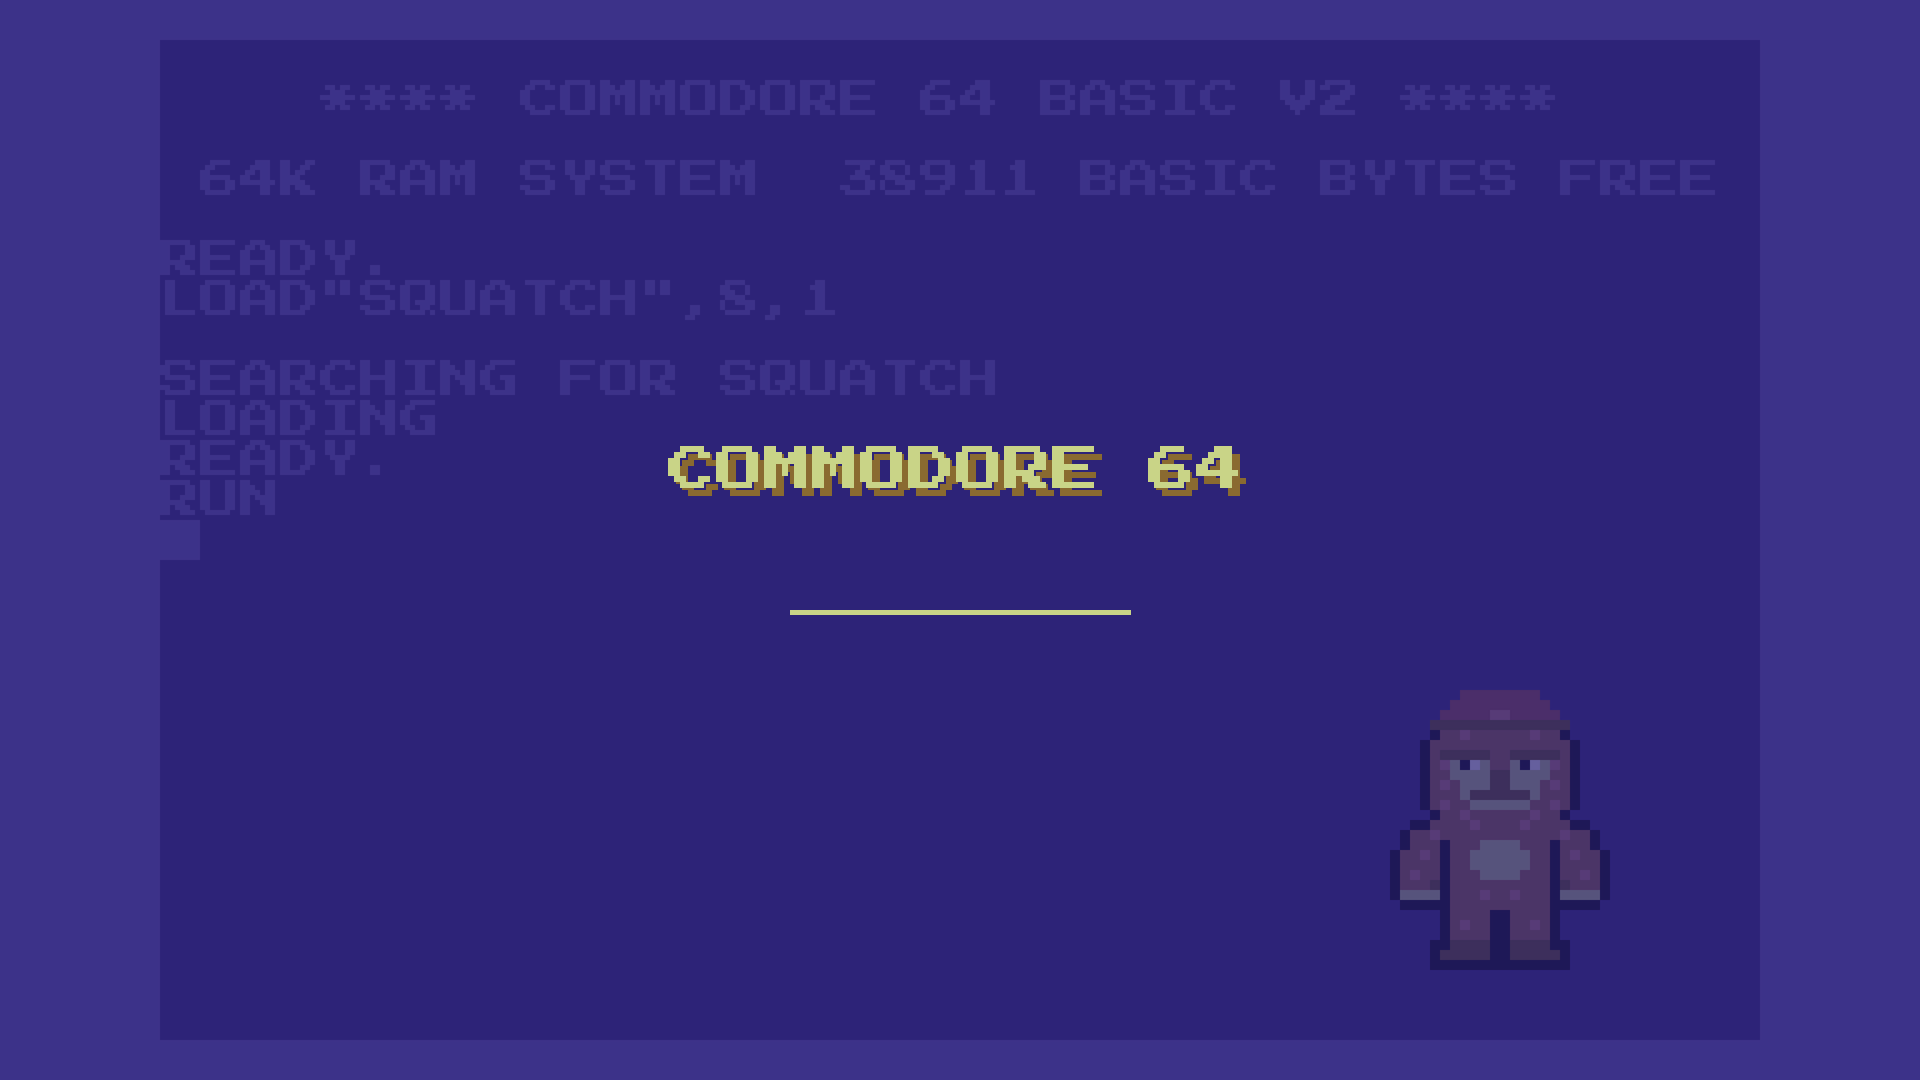
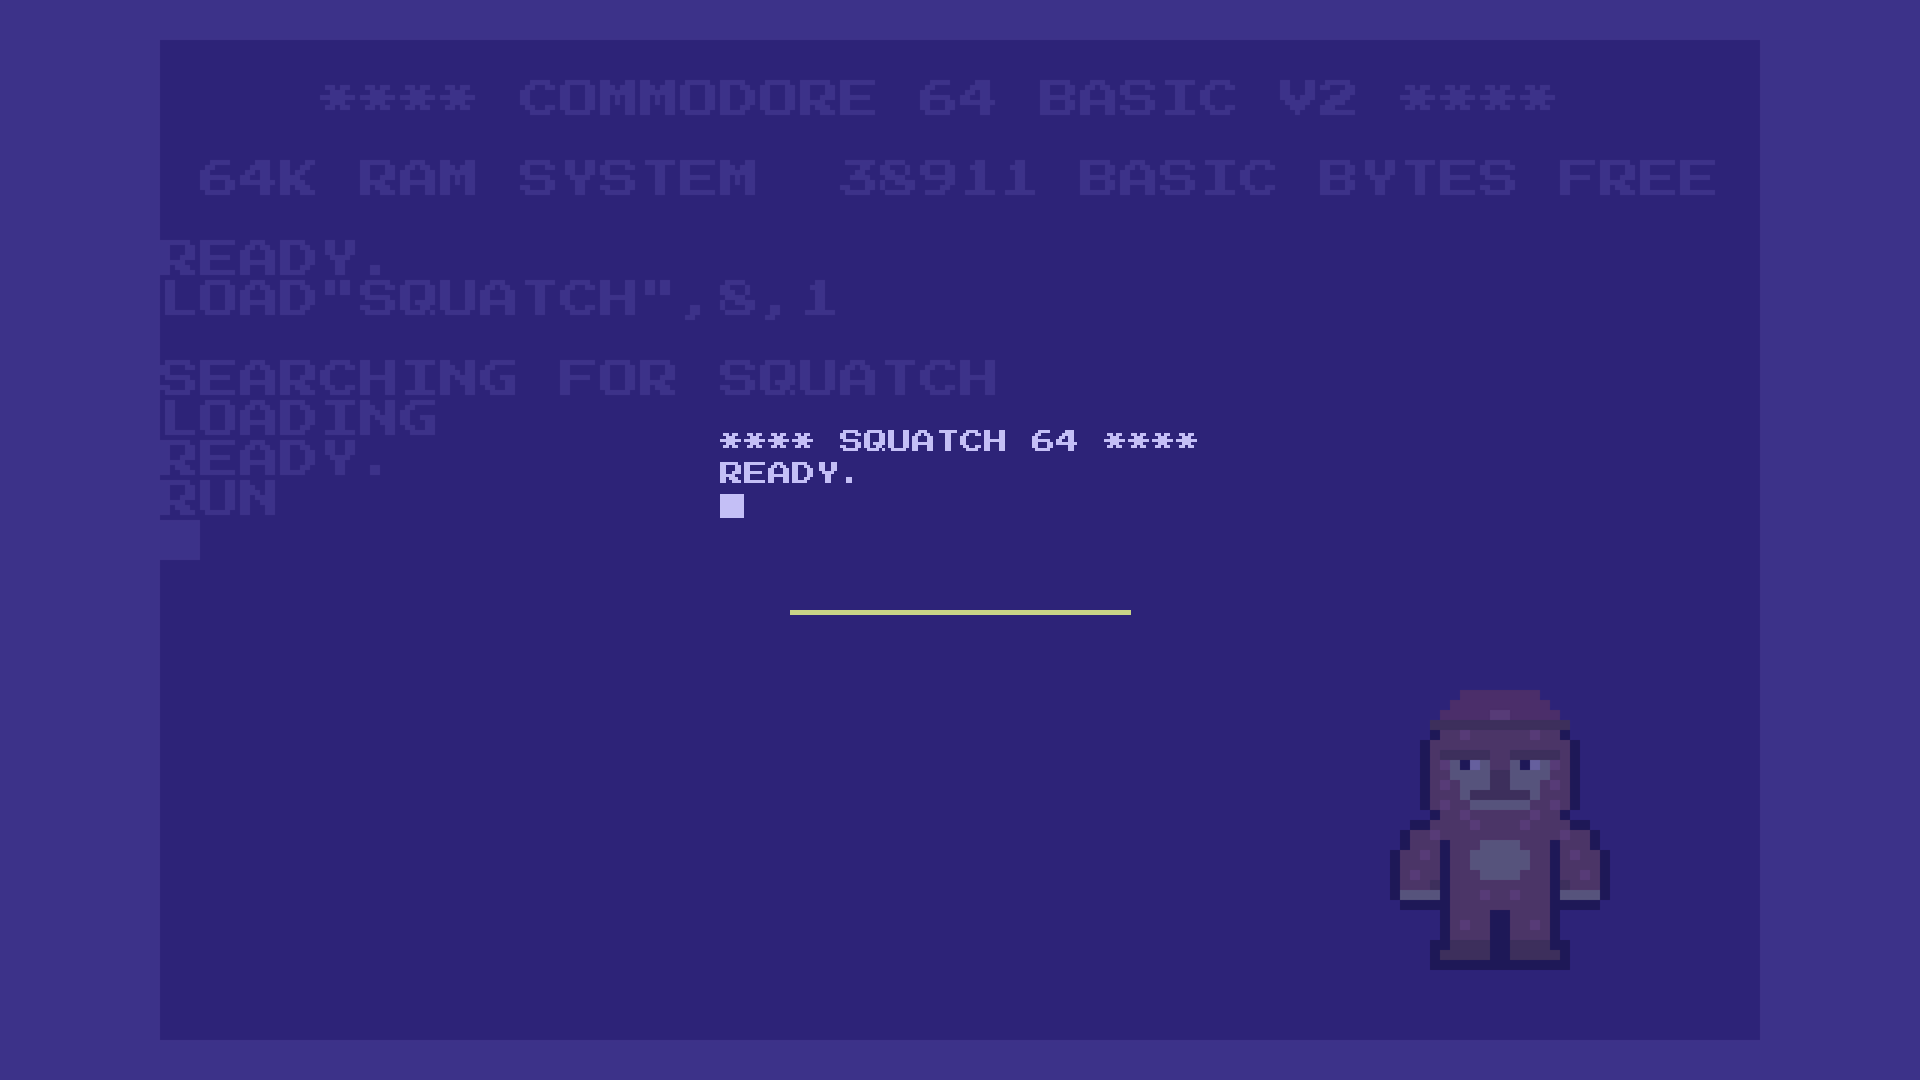
Boot splash, screensaver and extras

Changed region(s): [[0.3438, 0.3972, 0.6562, 0.4889]]

diff --git a/README.md b/README.md
@@ -21,7 +21,21 @@ omarchy theme install https://github.com/squatchware/omarchy-c64-theme
 - **Wallpapers**, drawn at the machine's own resolution and scaled up with no smoothing:
 - `01-ready.png`
 - `02-loading.png`
-- **Lock screen** wordmark (`unlock.png`).
+- **Boot splash and lock screen** (`unlock.png`): the machine's own start-up screen.
+- **Screensaver** art (`screensaver.txt`), animated by Omarchy's screensaver.
+
+## Extras
+
+The screensaver and boot splash need one command each (the second asks for sudo):
+
+```sh
+~/.config/omarchy/themes/c64/extras/install-extras.sh          # screensaver
+~/.config/omarchy/themes/c64/extras/install-extras.sh --boot   # + boot splash
+```
+
+The screensaver hook is shared by every Squatchware theme: it uses the active theme's art and
+puts your own back when you switch to a theme without any. The boot splash stays until you run
+`omarchy plymouth set by theme <name>` for another theme.
 
 ## The rest of the pack
 
